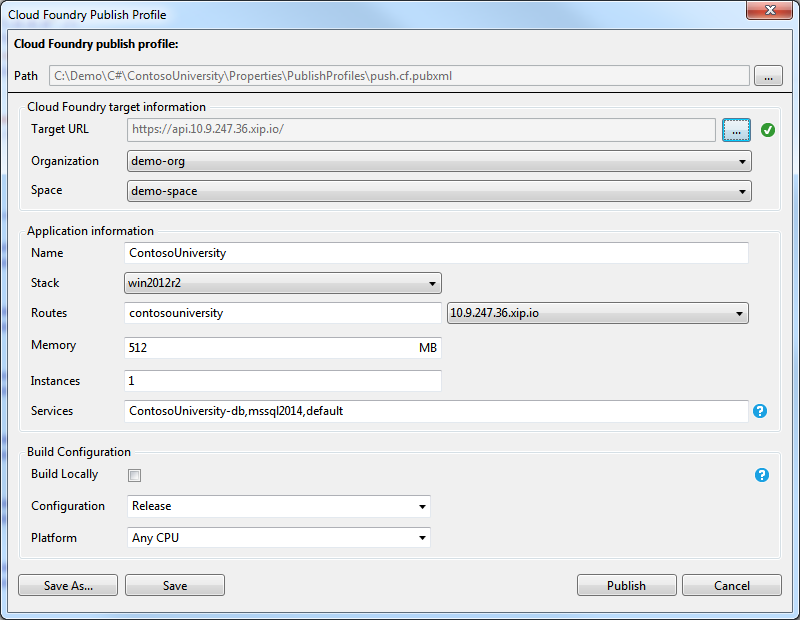
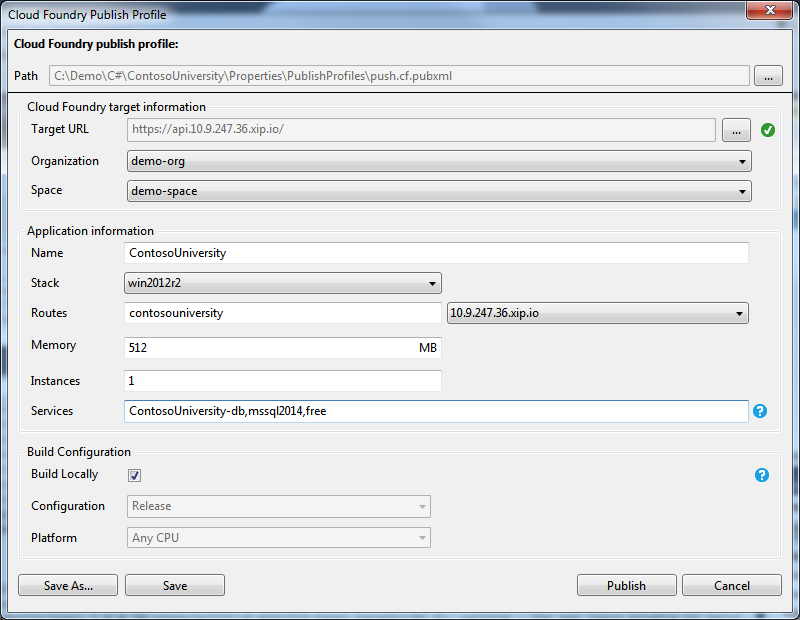
Adding new Windows stubs; update deploy screenshot; add Build screenshot; adding HDP upgrade doc

diff --git a/devplatform/1.2/1.2devplatform_upgrade.md b/devplatform/1.2/1.2devplatform_upgrade.md
@@ -1,7 +1,7 @@
 ---
 layout: default-devplatform
 title: "HP Helion 1.2 Development Platform: Commercial Installation and Configuration"
-permalink: /helion/devplatform/1.2/install/
+permalink: /helion/devplatform/1.2/upgrade/
 product: devplatform2.0
 product-version1: HP Helion Development Platform
 product-version2: HP Helion Development Platform 1.1
@@ -21,4 +21,70 @@ authors: Jayme P, Patrick F
 
 # HP Helion 1.2 Development Platform: Upgrading from HP Helion Development Platform 1.1
 
+If Helion Development Platform (HDP) 1.1 is installed on Helion OpenStack (HOS) 1.1, and the Helion OpenStack environment is updated to version 1.1.1, the HDP services must be stopped, and the HDP control plane VMs must be restarted to complete the upgrade.
+
+* <a href="#HDPstop">Stopping Helion Development Platform services</a>
+* <a href="#HDPstart">Restarting Helion Development Platform control plane VMs</a>
+
+### Stopping Helion Development Platform services<a name="HDPstop"></a> 
  
+Before stopping HDP services, check that the HDP service control plane is in healthy state (this is required for Trove and Marketplace). 
+
+To run the HDP scripts, perform the following steps:
+
+1. Set `dev_plat_service` to the name of the service (Trove/Marketplace).
+1. Set `skip_ha_checks` if the service control plane is not running in HA mode. 
+1. Provide path to the SSH private key that can be used to connect to the service control plane VMs.
+1. Source credentials for the Nova account which was used to set up the HPD service by entering:
+
+		cd /root/helion-update-1.1-to-<version>/tripleo/helion-update/tripleo-ansible
+		ansible-playbook \
+			--extra-vars dev_plat_service=<service> \
+			--private-key <path to SSH private key> \
+			--skip_ha_checks=True \
+			-u heat-admin \
+			-i plugins/inventory/dev_platform_heat.py \
+			playbooks/dev-platform/dev_platform_pre_check.yml 
+   
+
+
+1. If service is in healthy state, stop it by entering (if the service is not in a healthy state, contact customer support): 
+  
+		ansible-playbook \
+			--extra-vars dev_plat_service=<service> \
+			--private-key <path to SSH private key> \
+			-u heat-admin \
+			-i plugins/inventory/dev_platform_heat.py \
+			playbooks/dev-platform/dev_platform_stop.yml
+ 
+1. Stop the HDP control plane VMs by entering:
+
+		scripts/dev-platform/stop_dev_platform_instances.bash 
+   
+You can now run the update script.
+
+### Restarting Helion Development Platform control plane VMs<a name="HDPstart"></a> 
+
+
+After running update on the overcloud, the VMs running on the Compute hosts are in a shutdown state, so you need to first start the HDP service control plane VMs. To do this: 
+
+
+1. Source the credentials for the Nova account which was used to set up the HPD service by entering: 
+
+		cd /root/helion-update-1.1-to-<version>/tripleo/helion-update/tripleo-ansible 
+		scripts/dev-platform/restart_dev_platform_instances.bash 
+   
+
+1. Since you have already sourced correct overcloud Nova credentials, you can simply verify the status of HPD service VMs by running the <code>nova list</code> command and checking the status field. 
+
+
+
+1. To start the HDP service, enter:
+
+		ansible-playbook \
+			--extra-vars dev_plat_service=<service> \
+			--private-key <path to SSH private key> \
+			-u heat-admin \
+			-i plugins/inventory/dev_platform_heat.py \
+			playbooks/dev-platform/dev_platform_start.yml 
+

diff --git a/devplatform/preview/windows_tools_guide.md b/devplatform/preview/windows_tools_guide.md
@@ -61,21 +61,65 @@ The explorer can be opened in Visual Studio under View -&gt;Other Windows -&gt;C
 
 The Cloud Foundry Explorer Window displays the following types of nodes:
 
-* **Cloud Foundry Target**: Lists version, URL, login credentials, and whether to ignore SSL errors (e.g. from using self-signed certificates).
-* **Organization**: Lists current roles in organization, organization name, and creation date
-* **Space**: Lists current roles in space, space name, and creation date
-* **Apps**: The deployed applications
-* **App**: Each deployed application. Shows creation date, application name, buildpack, max memory, and instance count.
-* **Service**: Shows current roles in service, service name, creation date
-* **Route**: Shows the domain for the route, and which applications bind to it
-* **AppFiles**: A collection of files used by an application
-* **File**: Files are listed in an AppFiles collection. Shows the filename for the file.
-* **Services**: Shows details for the service collection
-* **Routes**: Shows details for the route collection
+<table>
+ <tr>
+  <th><p>Node Type</p></th>
+  <th><p>Supported Actions</p></th>
+  <th><p>Description</p></th>
+ </tr>
+ <tr>
+  <td><p><strong>Target</strong></p></td>
+  <td><p>Refresh, Remove</p></td>
+  <td><p>Lists version, URL, login credentials, and whether to ignore SSL errors (e.g. from using self-signed certificates).</p></td>
+ </tr>
+ <tr>
+  <td><p><strong>Organizations</strong></p></td>
+  <td><p>Refresh, Remove</p></td>
+  <td><p>Lists current roles in organization, organization name, and creation date</p></td>
+ </tr>
+ <tr>
+  <td><p><strong>Spaces</strong></p></td>
+  <td><p>Refresh, Remove</p></td>
+  <td><p>Lists current roles in space, space name, and creation date</p></td>
+ </tr>
+ <tr>
+  <td><p><strong>Applications</strong></p></td>
+  <td><p>Refresh, Remove</p></td>
+  <td><p>The deployed applications</p></td>
+ </tr>
+ <tr>
+  <td><p><strong>Application</strong></p></td>
+  <td><p>View App in Browser, Start, Restart, Stop and Delete</p></td>
+  <td><p>Each deployed application. Shows creation date, application name, buildpack, max memory, and instance count.</p></td>
+ </tr>
+ <tr>
+  <td><p><strong>Services</strong></p></td>
+  <td><p>Refresh, Remove</p></td>
+  <td><p>Shows details for the service collection</p></td>
+ </tr>
+ </tr>
+ <tr>
+  <td><p><strong>Service</strong></p></td>
+  <td><p>Delete</p></td>
+  <td><p>Shows current roles in service, service name, creation date</p></td>
+ </tr>
+ <tr>
+  <td><p><strong>Routes</strong></p></td>
+  <td><p>Refresh, Remove</p></td>
+  <td><p>Shows details for the route collection</p></td>
+ </tr>
+ <tr>
+  <td><p><strong>Route</strong></p></td>
+  <td><p>Delete</p></td>
+  <td><p>Shows the domain for the route, and which applications bind to it</p></td>
+ </tr>
+</table>
 
 #### Deploying an application
 
 For an example of how to deploy an application from Visual Studio, see <a href="/helion/devplatform/preview/deployingnet">Deploying your first .NET Application</a>.
+
+**Note:** Currently, only Web Application Projects can be deployed from Cloud Foundry Explorer; Web Site Projects are not supported. Web Site Projects can still be deployed from the command line.
 
 ### Cloud Foundry MSBuild Tasks {#msbuild}
 

diff --git a/devplatform/preview/windows_firstapp.md b/devplatform/preview/windows_firstapp.md
@@ -59,6 +59,9 @@ This tutorial requires the following software components:
 				MultipleActiveResultSets=true;" 
 			providerName="System.Data.SqlClient" >
 5. Save <code>web.config</code>.
+6. Build the project locally to verify that it builds correctly, and all NuGet packages successfully install. Once the project builds successfully, go to the next step.
+
+	<img src="media/windows_build.png">
 6. Right click the project and select **Publish to Cloud Foundry**.
 	
 	<img src="media/windows_deploy_contextmenu.png">
@@ -74,6 +77,8 @@ This tutorial requires the following software components:
 	* **Memory**: The amount of memory the application will use (e.g. 512 MB).
 	* **Instances**: The number of separate installations of the application (e.g. 1).
 	* **Services**: Enter the services to bind to the application, in the form <code>Name, service type, quota</code>, with separate services separated by semicolons. Example: <code>ContosoUniversity-db,mssql2014,default</code>
+	
+		**Note:** If you are adding a SQL server service, ensure that the name matches the value set in the config file. Example: <code>ContosoUniversity-db,mssql2014,free</code>  
 	* **Build Locally**: Check to build the application locally before deployment, rather than building on the server.
 	* **Configuration**: Set the build configuration (e.g. Debug).
 	* **Platform**: Set the target CPU platform (e.g. Any CPU).

diff --git a/devplatform/preview/windows_custom_buildpacks.md b/devplatform/preview/windows_custom_buildpacks.md
@@ -1,0 +1,26 @@
+---
+layout: default-devplatform
+title: "HP Helion 1.2 Development Platform: Deploying Windows Applications with Custom IIS Buildpacks"
+permalink: /helion/devplatform/preview/powershell
+product: devplatform
+product-version1: HP Helion Development Platform
+product-version2: HP Helion Development Platform 1.2
+role1: Systems Administrator 
+role2: System Engineer
+role3: Cloud Administrator
+role4: Network Administrator
+role5: Application Developer
+Role6: Security Engineer
+role7: Application Developer 
+role8: ISV Developer
+role9: Service Developer
+authors: Patrick F
+
+---
+<!--UNDER REVISION-->
+
+# HP Helion 1.2 Development Platform: Deploying Windows Applications with Custom IIS Buildpacks
+
+*Windows and IIS are either registered trademarks or trademarks of Microsoft Corporation in the United States and/or other countries.*
+
+A **Buildpack** is a collection of scripts that specify what frameworks and runtimes are to be deployed with an application. 

diff --git a/devplatform/preview/windows_powershell.md b/devplatform/preview/windows_powershell.md
@@ -1,0 +1,24 @@
+---
+layout: default-devplatform
+title: "HP Helion 1.2 Development Platform: Deploying Windows Applications with PowerShell"
+permalink: /helion/devplatform/preview/powershell
+product: devplatform
+product-version1: HP Helion Development Platform
+product-version2: HP Helion Development Platform 1.2
+role1: Systems Administrator 
+role2: System Engineer
+role3: Cloud Administrator
+role4: Network Administrator
+role5: Application Developer
+Role6: Security Engineer
+role7: Application Developer 
+role8: ISV Developer
+role9: Service Developer
+authors: Patrick F
+
+---
+<!--UNDER REVISION-->
+
+# HP Helion 1.2 Development Platform: Deploying Windows Applications with PowerShell
+
+*Windows and PowerShell are either registered trademarks or trademarks of Microsoft Corporation in the United States and/or other countries.*

diff --git a/devplatform/preview/windows_adding_services.md b/devplatform/preview/windows_adding_services.md
@@ -1,0 +1,25 @@
+---
+layout: default-devplatform
+title: "HP Helion 1.2 Development Platform: Adding Services to Windows Applications"
+permalink: /helion/devplatform/preview/adding_services
+product: devplatform
+product-version1: HP Helion Development Platform
+product-version2: HP Helion Development Platform 1.2
+role1: Systems Administrator 
+role2: System Engineer
+role3: Cloud Administrator
+role4: Network Administrator
+role5: Application Developer
+Role6: Security Engineer
+role7: Application Developer 
+role8: ISV Developer
+role9: Service Developer
+authors: Patrick F
+
+---
+<!--UNDER REVISION-->
+
+# HP Helion 1.2 Development Platform: Adding Services to Windows Applications 
+
+*Windows is either a registered trademark or trademark of Microsoft Corporation in the United States and/or other countries.*
+
